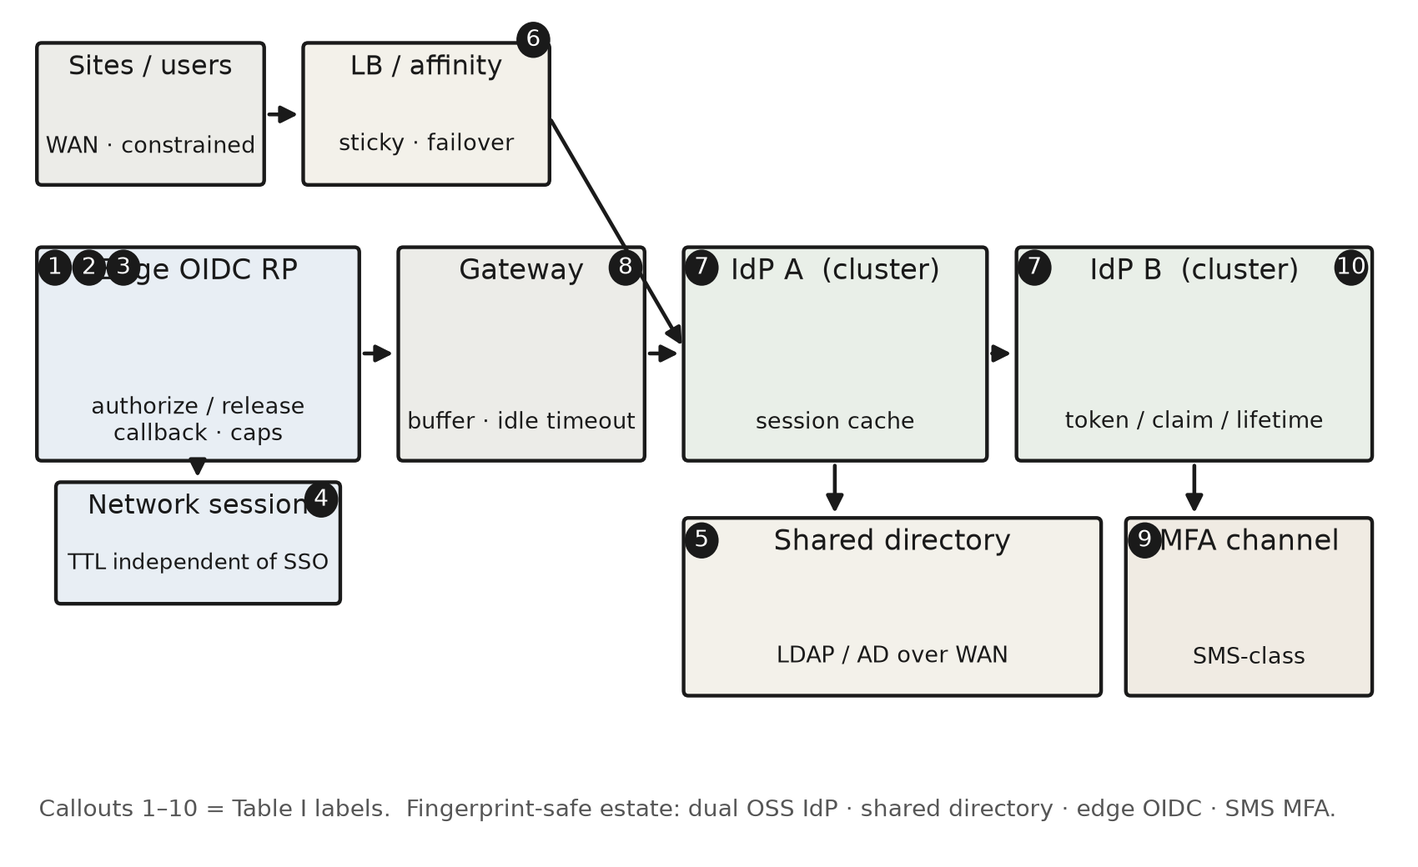
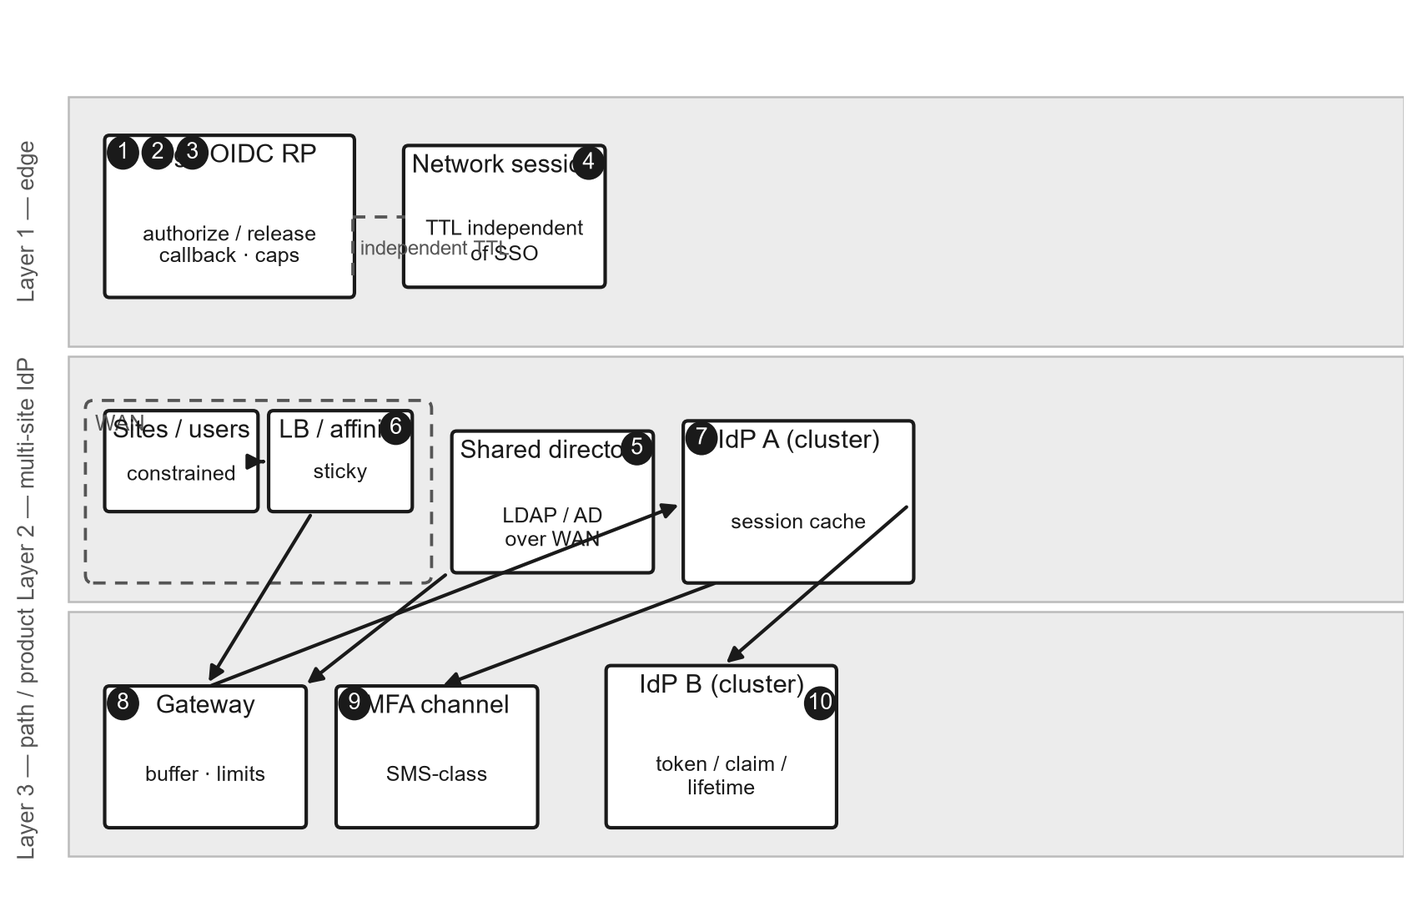
Release v1.0.11: sequential manuscript tables and priority mapping.
Align artifact with IEEE Access Gates pass: Table I-VII numbering in docs and JSON, operational_priority_class mapping, checklist sync, and figure ideal-pass PNGs. No taxonomy or case-data changes.

diff --git a/CHANGELOG.md b/CHANGELOG.md
@@ -1,5 +1,14 @@
 # Changelog
 
+## 1.0.11 — 2026-08-31
+
+Manuscript Gates pass: sequential IEEE table numbering and operational-priority mapping. No taxonomy, category assignments, or reliability values changed.
+
+- **Table numbering.** Manuscript tables renumbered I–VII sequentially; artifact docs and JSON updated (`docs/MANUSCRIPT-TABLES.md`).
+- **Operational priority.** `codebook/incidents.json` adds `operational_priority_class` mapping (legacy `severity` / Sev-1/2/3 → Pri-1/2/3).
+- **Checklist.** Items 3 and 5 synced with manuscript Table V (TTL and directory-federation timeout wording).
+- **Figures.** Ideal-pass PNGs (swimlanes, diamond flowchart, three-panel Fig. 3).
+
 ## 1.0.10 — 2026-08-31
 
 Stop version-DOI lag in `CITATION.cff`. No code or case-data changes.
@@ -31,9 +40,9 @@ Fig. 3 filename alignment only. No taxonomy, category, severity, reliability, or
 Pre-submission consistency and anonymization pass. No taxonomy, category, severity, or reliability values changed; the N=11 catalog and all coding are unchanged.
 
 - **Anonymization.** Removed product, directory-topology, and monitoring-tool names from `docs/EVIDENCE-INDEX.md` I1; no bogus §VI-E cross-reference.
-- **Table III parity.** `codebook/incidents.json` summaries byte-identical to manuscript Table III publishable-summary column; I3 mechanism corrected.
+- **Table IV parity.** `codebook/incidents.json` summaries byte-identical to manuscript Table IV publishable-summary column; I3 mechanism corrected.
 - **Evidence classes.** Added E0–E3 alongside DESIGN/RETRO `form` key (primary key unchanged for reliability packet).
-- **Checklist parity.** Items 3 and 8 aligned with manuscript Table IV (no buffer default; linearizable single-winner consume wording).
+- **Checklist parity.** Items 3 and 8 aligned with manuscript Table V (no buffer default; linearizable single-winner consume wording).
 - **Naming.** `harness/nonce_consume.py` → `callback_consume.py`; `test_nonce_consume.py` → `test_callback_consume.py`.
 - **Metadata.** `CITATION.cff` and `docs/TAGS.md` prepared for v1.0.7; README cite pin updated.
 
@@ -46,7 +55,7 @@ Packaging and manuscript-alignment iterations between the first Access freeze (`
 - Manuscript-aligned freeze for IEEE Access companion artifact.
 - Broaden `mfa_delivery` inclusion to MFA completion on an out-of-band path (SMS unreliability or OTP verification/lifecycle), keeping the ten-category id set.
 - Clarify `codebook/stress-cases.json` as illustrative decision-test vignettes only (not empirical validation).
-- Sync checklist item 9, packet Table I row, I5 publishable summary, and `docs/EVIDENCE-INDEX.md`.
+- Sync checklist item 9, packet Table II row, I5 publishable summary, and `docs/EVIDENCE-INDEX.md`.
 
 ## 0.1.7 — 2026-08-13
 
@@ -60,11 +69,11 @@ Document explicit F3/F5 harness schedules (`harness/SCHEDULES.md`): Schedule A `
 
 ## 0.1.5 — 2026-08-12
 
-Rename category `edge_nonce` → `edge_callback_consume` for protocol precision (callback-correlation consume ≠ OIDC ID-Token nonce / AS–RS token replay). Sync Table I, incidents, checklist, packet, evidence index, and harness docs. Second-coder agreement remains on the same mechanism cell; earlier tags used the prior label name.
+Rename category `edge_nonce` → `edge_callback_consume` for protocol precision (callback-correlation consume ≠ OIDC ID-Token nonce / AS–RS token replay). Sync Table II, incidents, checklist, packet, evidence index, and harness docs. Second-coder agreement remains on the same mechanism cell; earlier tags used the prior label name.
 
 ## 0.1.4 — 2026-08-12
 
-Add `docs/EVIDENCE-INDEX.md` and `docs/EXTERNAL-INCIDENTS.md` (plus GitHub issue template) so manuscript Availability references resolve. Align README / `taxonomy.json` title with the current manuscript. Retire checklist “citation-removal” label in favor of bidirectional case traceability; sync Table IV item wording (incl. item 8 buffer/fixture language).
+Add `docs/EVIDENCE-INDEX.md` and `docs/EXTERNAL-INCIDENTS.md` (plus GitHub issue template) so manuscript Availability references resolve. Align README / `taxonomy.json` title with the current manuscript. Retire checklist “citation-removal” label in favor of bidirectional case traceability; sync Table V item wording (incl. item 8 buffer/fixture language).
 
 ## 0.1.3 — 2026-08-12
 
@@ -76,11 +85,11 @@ Data release for Access Availability: `codebook/reliability.json` (+ `reliabilit
 
 ## 0.1.1 — 2026-08-12
 
-Packet and docs state the second-coder round as **unblinded** relative to the published catalog (`incidents.json` / Table III). “Packet only until submit” remains the working protocol (not a blinding claim).
+Packet and docs state the second-coder round as **unblinded** relative to the published catalog (`incidents.json` / Table IV). “Packet only until submit” remains the working protocol (not a blinding claim).
 
 ## 0.1.0 — 2026-08-12
 
-Independent-coding packet: paraphrased cases (no Table I inclusion vocabulary), additional-observations fields for excludes, Sev-1/2/3 on the response sheet. Gold labels are disclosed as `codebook/incidents.json` (published catalog); working protocol is “do not browse the repo until submit.” Dropped empty `patterns/` placeholder. CI actions SHA-pinned.
+Independent-coding packet: paraphrased cases (no Table II inclusion vocabulary), additional-observations fields for excludes, Sev-1/2/3 on the response sheet. Gold labels are disclosed as `codebook/incidents.json` (published catalog); working protocol is “do not browse the repo until submit.” Dropped empty `patterns/` placeholder. CI actions SHA-pinned.
 
 ## 0.0.0 — 2026-08-11
 

diff --git a/codebook/second-coder/PACKET.md b/codebook/second-coder/PACKET.md
@@ -1,12 +1,12 @@
 # Independent coding packet — label assignment
 
-**Task:** Assign one Table I category and one Table II severity to each case.  
-**This is not taxonomy discovery.** Table I is normative. You apply the inclusion/exclusion rules and tie-breakers.  
+**Task:** Assign one Table II category and one Table III severity to each case.  
+**This is not taxonomy discovery.** Table II is normative. You apply the inclusion/exclusion rules and tie-breakers.  
 **Time:** about one hour.  
 **Order:** cases are in randomized order.  
 **No estate access.** No NDA. Do not search for the paper.
 
-**Working protocol (not blinding):** This round is **unblinded** relative to the published catalog. The public repository’s `codebook/incidents.json` already carries category, severity, and form for all eleven rows (Table III). Those labels are not hidden. Treat this file as self-contained anyway: do not clone, browse, or search that repository until you have submitted this sheet. Reading the catalog would turn the task into transcription. We measure agreement on applying Table I to paraphrased cases, not double-blind discovery.
+**Working protocol (not blinding):** This round is **unblinded** relative to the published catalog. The public repository’s `codebook/incidents.json` already carries category, severity, and form for all eleven rows (Table IV). Those labels are not hidden. Treat this file as self-contained anyway: do not clone, browse, or search that repository until you have submitted this sheet. Reading the catalog would turn the task into transcription. We measure agreement on applying Table II to paraphrased cases, not double-blind discovery.
 
 Return the filled response sheet. Do not discuss cases with the author until you submit.
 
@@ -15,8 +15,8 @@ Return the filled response sheet. Do not discuss cases with the author until you
 ## What you receive
 
 1. This packet (instructions + cases).  
-2. Table I (inclusion / exclusion).  
-3. Table II (severity).  
+2. Table II (inclusion / exclusion).  
+3. Table III (severity).  
 4. Tie-breakers (below).  
 5. Response sheet.
 
@@ -24,7 +24,7 @@ Return the filled response sheet. Do not discuss cases with the author until you
 
 Incident IDs (F1… / I1…), gold category labels, and the manuscript’s one-line summaries. Those labels exist in the public codebook (`codebook/incidents.json`) for the published catalog. They are not hidden; the exercise is therefore unblinded against that catalog. Code from this file only, then submit.
 
-Case texts are paraphrased. They are not the Table I inclusion sentences. Apply the rules; do not keyword-match the table.
+Case texts are paraphrased. They are not the Table II inclusion sentences. Apply the rules; do not keyword-match the table.
 
 ---
 
@@ -32,12 +32,12 @@ Case texts are paraphrased. They are not the Table I inclusion sentences. Apply 
 
 For each case, read **symptom**, **mechanism**, **resolution**, and **additional observations**.
 
-The additional-observations field is evidence for Table I **excludes**. Use it. A match on the inclusion phrase alone is not enough.
+The additional-observations field is evidence for Table II **excludes**. Use it. A match on the inclusion phrase alone is not enough.
 
-1. Walk the tie-breaker order in Table I: first matching **Yes** wins.  
-2. Assign **exactly one** category from Table I.  
-3. Assign **exactly one** severity from Table II, written as `Sev-1`, `Sev-2`, or `Sev-3`. Severity is a second axis. It is not a substitute for mechanism. The same mechanism may appear at two severities.  
-4. If no Table I cell fits, write `NEW_LABEL` and one sentence why.  
+1. Walk the tie-breaker order in Table II: first matching **Yes** wins.  
+2. Assign **exactly one** category from Table II.  
+3. Assign **exactly one** severity from Table III, written as `Sev-1`, `Sev-2`, or `Sev-3`. Severity is a second axis. It is not a substitute for mechanism. The same mechanism may appear at two severities.  
+4. If no Table II cell fits, write `NEW_LABEL` and one sentence why.  
 5. Do not invent incidents. Do not recode another coder’s sheet.
 
 **Frame (honest):** unblinded agreement on label assignment given a normative decision table (not blinding; not taxonomy discovery).
@@ -53,7 +53,7 @@ The additional-observations field is evidence for Table I **excludes**. Use it. 
 
 ---
 
-## Table I — Closed category inclusion and exclusion
+## Table II — Closed category inclusion and exclusion
 
 | Category | Includes | Excludes (goes to…) |
 | --- | --- | --- |
@@ -70,7 +70,7 @@ The additional-observations field is evidence for Table I **excludes**. Use it. 
 
 ---
 
-## Table II — Severity axis
+## Table III — Severity axis
 
 | Code | Meaning |
 | --- | --- |
@@ -167,7 +167,7 @@ Write the code `Sev-1`, `Sev-2`, or `Sev-3` on the response sheet (not bare `1` 
 
 Copy this table. One category and one severity per row. Severity must be `Sev-1`, `Sev-2`, or `Sev-3`.
 
-| Case | Category (Table I or NEW_LABEL) | Severity (Sev-1 / Sev-2 / Sev-3) | One-line note (optional) |
+| Case | Category (Table II or NEW_LABEL) | Severity (Sev-1 / Sev-2 / Sev-3) | One-line note (optional) |
 | ---: | --- | --- | --- |
 | 01 |  |  |  |
 | 02 |  |  |  |

diff --git a/docs/EVIDENCE-INDEX.md b/docs/EVIDENCE-INDEX.md
@@ -1,6 +1,6 @@
 # Evidence index (case → released material)
 
-Honest map for the manuscript Table III. **No estate tickets, live logs, hostnames, product names, topology descriptors, or configuration fragments are released.**
+Honest map for the manuscript Table IV. **No estate tickets, live logs, hostnames, product names, topology descriptors, or configuration fragments are released.**
 
 ## Evidence classes
 
@@ -19,17 +19,17 @@ additional, finer-grained label; it does not renumber or recode any row.
 
 | Case | Category | Form | Class | Released technical material | Notes |
 | --- | --- | --- | --- | --- | --- |
-| F1 | edge_side_effect | DESIGN | E0 | Architect note / Table III summary only | No state-machine fixture released |
-| F2 | edge_identifier | DESIGN | E0 | Architect note / Table III summary only | Mechanism literature is cited in the paper, not as proof of a local event |
+| F1 | edge_side_effect | DESIGN | E0 | Architect note / Table IV summary only | No state-machine fixture released |
+| F2 | edge_identifier | DESIGN | E0 | Architect note / Table IV summary only | Mechanism literature is cited in the paper, not as proof of a local event |
 | F3 | edge_callback_consume | DESIGN | E0 + E3 | Architect note + [`harness/`](../harness/) callback-consume demo | Harness models the race class under single-store assumptions; not estate logs |
-| F4 | session_plane | DESIGN | E0 | Architect note / Table III summary only | |
+| F4 | session_plane | DESIGN | E0 | Architect note / Table IV summary only | |
 | F5 | edge_callback_consume | DESIGN | E0 + E3 | Architect note + [`harness/`](../harness/) callback-consume demo | Same harness as F3; see [`harness/SCHEDULES.md`](../harness/SCHEDULES.md) for the threat model |
-| I1 | directory_federation | RETRO | E1 | Architect note / Table III summary only | No corroborating ticket, log, or configuration retained; the manuscript attributes the failure to WAN federation latency and does not claim measurement |
-| I2 | multi_site_affinity | RETRO | E1 | Architect note / Table III summary only | |
-| I3 | cluster_state | RETRO | E1 | Architect note / Table III summary only | |
+| I1 | directory_federation | RETRO | E1 | Architect note / Table IV summary only | No corroborating ticket, log, or configuration retained; the manuscript attributes the failure to WAN federation latency and does not claim measurement |
+| I2 | multi_site_affinity | RETRO | E1 | Architect note / Table IV summary only | |
+| I3 | cluster_state | RETRO | E1 | Architect note / Table IV summary only | |
 | I4 | protocol_gateway | RETRO | E2 | Publishable summary + [`harness/fixtures/i4/`](../harness/fixtures/i4/) synthetic size-class fixtures | **Ticket-reviewed privately** (not released). Fixtures are **not** estate SAML captures and do not upgrade this row above E2 |
 | I5 | mfa_delivery | RETRO | E2 | Publishable summary only | **Ticket-reviewed privately** (not released); MFA completion failure at OTP verification/lifecycle on the SMS path (category inclusion covers channel unreliability or OTP state); not claimed as PSTN blackout alone |
-| I6 | dual_idp_boundary | RETRO | E1 | Architect note / Table III summary only | No claim matrix released |
+| I6 | dual_idp_boundary | RETRO | E1 | Architect note / Table IV summary only | No claim matrix released |
 
 ## How to run the executable evidence objects
 

diff --git a/docs/SCOPE.md b/docs/SCOPE.md
@@ -4,18 +4,18 @@
 
 - A frozen codebook for a ten-category federated SSO classification instrument (inclusion, exclusion, tie-breakers, severity).
 - Eleven fingerprint-safe incident summaries used as a demonstration of that scheme (`codebook/incidents.json` is the published catalog, including category, severity, and form).
-- An **unblinded** independent-coding packet (`codebook/second-coder/PACKET.md`) with paraphrased cases and negative-evidence fields. Gold labels for the published catalog are in `incidents.json` (Table III). Send the packet standalone so coding is rule application, not transcription; do not claim blinding.
+- An **unblinded** independent-coding packet (`codebook/second-coder/PACKET.md`) with paraphrased cases and negative-evidence fields. Gold labels for the published catalog are in `incidents.json` (Table IV). Send the packet standalone so coding is rule application, not transcription; do not claim blinding.
 - A reliability summary (`codebook/reliability.json`) with raw agreement, Gwet’s AC1 (primary under severity skew), Cohen’s κ, and bootstrap CIs for that round.
 - A standard-library callback-consume demonstration of the manuscript Fig. 3 claim (`harness/callback_consume.py`).
-- An **evidence index** (`docs/EVIDENCE-INDEX.md`) mapping each Table III case to released material (honest when the entry is architect note only).
-- An **open falsifiability path**: external fingerprint-safe incidents against Table I (`docs/EXTERNAL-INCIDENTS.md` + GitHub issue template). Outcomes are not claimed as manuscript evidence.
+- An **evidence index** (`docs/EVIDENCE-INDEX.md`) mapping each Table IV case to released material (honest when the entry is architect note only).
+- An **open falsifiability path**: external fingerprint-safe incidents against Table II (`docs/EXTERNAL-INCIDENTS.md` + GitHub issue template). Outcomes are not claimed as manuscript evidence.
 
 ## This artefact is not
 
 - A production IdP, portal, or estate config.
 - A rate, a laboratory experiment on live IdPs, or statistical transfer across organizations.
-- Independent taxonomy discovery. Second-coder agreement is label assignment given Table I.
-- A hidden gold file. There is no separate public answer key that maps Case 01–11 to F/I ids. The catalog labels themselves are public because they are Table III. The Case→incident shuffle map stays author-only.
+- Independent taxonomy discovery. Second-coder agreement is label assignment given Table II.
+- A hidden gold file. There is no separate public answer key that maps Case 01–11 to F/I ids. The catalog labels themselves are public because they are Table IV. The Case→incident shuffle map stays author-only.
 - Proof that the ten categories are complete. Completeness is not claimed; external submissions are the ongoing test.
 
 ## Fingerprint test

diff --git a/docs/EXTERNAL-INCIDENTS.md b/docs/EXTERNAL-INCIDENTS.md
@@ -1,23 +1,23 @@
-# External incidents against Table I
+# External incidents against Table II
 
 ## Purpose
 
 This is an **ongoing falsifiability check**, not part of the manuscript’s N=11 catalog.
 
-Operators of constrained multi-site open-source IAM / federated SSO deployments may submit fingerprint-safe incident summaries and ask whether they fit the published ten-category scheme (`codebook/taxonomy.json` / manuscript Table I) without inventing a new label.
+Operators of constrained multi-site open-source IAM / federated SSO deployments may submit fingerprint-safe incident summaries and ask whether they fit the published ten-category scheme (`codebook/taxonomy.json` / manuscript Table II) without inventing a new label.
 
 ## How to submit
 
-Open a GitHub issue with the **External incident (Table I)** template, or file a plain issue with the fields below.
+Open a GitHub issue with the **External incident (Table II)** template, or file a plain issue with the fields below.
 
 Required fields:
 
 1. **Symptom** — what users or operators saw (no hostnames, ticket IDs, geography, or org-identifying product names).
 2. **Mechanism** — what failed on the path (identity vs edge vs directory vs cluster vs gateway vs MFA vs dual-IdP meaning).
 3. **Resolution** — what closed or mitigated it (or “unknown”).
-4. **Proposed Table I category** — one of the ten ids, or `none` if you believe no cell fits.
+4. **Proposed Table II category** — one of the ten ids, or `none` if you believe no cell fits.
 5. **Negative evidence** — why neighboring labels do not apply (one sentence each for the closest excludes).
-6. **Severity (optional)** — Sev-1 / Sev-2 / Sev-3 using `codebook/taxonomy.json` / Table II meanings.
+6. **Severity (optional)** — Sev-1 / Sev-2 / Sev-3 using `codebook/taxonomy.json` / Table III meanings.
 
 ## Scoring (maintainer)
 
@@ -25,7 +25,7 @@ Each accepted submission is labeled one of:
 
 | Outcome | Meaning |
 | --- | --- |
-| `fits` | Places in exactly one Table I cell under the published tie-breakers |
+| `fits` | Places in exactly one Table II cell under the published tie-breakers |
 | `fits_with_clarification` | Fits after a wording clarification that does not add a category |
 | `forces_new_label` | Cannot be placed without a new category or a layer merge that changes boundaries |
 

diff --git a/codebook/second-coder/README.md b/codebook/second-coder/README.md
@@ -4,6 +4,6 @@ Send [`PACKET.md`](PACKET.md) as a **standalone file**. Do not point the coder a
 
 `codebook/incidents.json` in this repository **is** the published catalog (category, severity, and form for all eleven rows, plus header counts). A statement that gold labels are absent from the tree would be false. The second-coder round is therefore **unblinded** against that catalog. The working protocol is still “packet only until submit” so the sheet is not a transcription exercise.
 
-The task is agreement on label assignment given Table I, not independent taxonomy discovery and not double-blind discovery. n=11 across ten categories: Cohen’s κ interval will be wide; report it, do not oversell it. Published summary: [`../reliability.json`](../reliability.json).
+The task is agreement on label assignment given Table II, not independent taxonomy discovery and not double-blind discovery. n=11 across ten categories: Cohen’s κ interval will be wide; report it, do not oversell it. Published summary: [`../reliability.json`](../reliability.json).
 
 The coder must be nameable in Acknowledgments or describable anonymously, and must not have declined association with the work.

diff --git a/docs/MANUSCRIPT-TABLES.md b/docs/MANUSCRIPT-TABLES.md
@@ -1,0 +1,15 @@
+# Manuscript table numbering (IEEE Access)
+
+Sequential table numbers in the submitted manuscript (31 Aug 2026 Gates pass):
+
+| Manuscript table | Content | Artifact primary file |
+| --- | --- | --- |
+| **Table I** | Evidence classes (E0–E3) | `codebook/incidents.json` (`evidence_classes`) |
+| **Table II** | Rule-bounded categories | `codebook/taxonomy.json` |
+| **Table III** | Operational priority class | `codebook/taxonomy.json` / `incidents.json` (`operational_priority_class` mapping) |
+| **Table IV** | Case catalog | `codebook/incidents.json` |
+| **Table V** | Practitioner checklist | `codebook/checklist.json` |
+| **Table VI** | Prior-work comparison | manuscript only |
+| **Table VII** | F5 threat model | manuscript only |
+
+Earlier artifact releases used non-sequential numbering (evidence classes as Table VI). From this revision onward, the manuscript uses normal IEEE ordering and the artifact tracks it via `incidents.json` → `manuscript_tables`.

diff --git a/README.md b/README.md
@@ -23,7 +23,7 @@ No hostnames, secrets, ticket IDs, or geography.
 
 ## External incidents (falsifiability)
 
-Operators of similar constrained multi-site open-source IAM deployments may submit fingerprint-safe incident summaries against the published Table I. Use the **External incident (Table I)** GitHub issue template or follow [`docs/EXTERNAL-INCIDENTS.md`](docs/EXTERNAL-INCIDENTS.md). Submissions are scored `fits` / `fits_with_clarification` / `forces_new_label`. They are **not** part of the manuscript’s N=11 catalog.
+Operators of similar constrained multi-site open-source IAM deployments may submit fingerprint-safe incident summaries against the published Table II. Use the **External incident (Table II)** GitHub issue template or follow [`docs/EXTERNAL-INCIDENTS.md`](docs/EXTERNAL-INCIDENTS.md). Submissions are scored `fits` / `fits_with_clarification` / `forces_new_label`. They are **not** part of the manuscript’s N=11 catalog.
 
 ## Evidence index
 

diff --git a/docs/TAGS.md b/docs/TAGS.md
@@ -4,6 +4,7 @@ Cite a tag, never floating `main`.
 
 | Tag | Role |
 | --- | --- |
+| `v1.0.11` | **Manuscript cite pin** for IEEE Access submission (Gates pass). Sequential table numbering I–VII; `operational_priority_class` mapping in `incidents.json`; figure ideal pass; refs [29]–[34] in manuscript only. Wire version DOI into manuscript ref [28] after Zenodo mints for this release. |
 | `v1.0.10` | **CITATION.cff policy fix.** `url:` and `identifiers` use concept DOI only (`10.5281/zenodo.21950901`). Version DOI belongs in the manuscript, not in the artifact metadata. |
 | `v1.0.9` | **IEEE Access / Zenodo cite pin** for manuscript Availability and ref [28]. Version DOI `10.5281/zenodo.22214839`. Tag snapshot's `CITATION.cff` still carried v1.0.8 DOI — superseded by v1.0.10 policy. |
 | `v1.0.9.1` | Superseded post-tag DOI wire attempt; do not cite this tag in the paper. |

diff --git a/codebook/README.md b/codebook/README.md
@@ -6,7 +6,7 @@ Machine-readable copy of the frozen coding scheme. No hostnames, geography, tick
 | --- | --- |
 | [`taxonomy.json`](taxonomy.json) | Ten a priori labels + inclusion/exclusion |
 | [`incidents.json`](incidents.json) | N=11 publishable catalog (category, severity, form, summary) |
-| [`checklist.json`](checklist.json) | Table IV items with bidirectional case traceability |
+| [`checklist.json`](checklist.json) | Table V items with bidirectional case traceability |
 | [`reliability.json`](reliability.json) | Second-coder raw agreement + Gwet AC1 (primary) + Cohen’s κ + bootstrap CI |
 | [`reliability.md`](reliability.md) | Human-readable reliability summary |
 | [`second-coder/PACKET.md`](second-coder/PACKET.md) | Unblinded independent-coding packet. Send standalone. `incidents.json` is the published catalog, not a hidden key. |

diff --git a/codebook/reliability.md b/codebook/reliability.md
@@ -13,4 +13,4 @@ Protocol: **unblinded** independent coding (packet-only; public gold in `inciden
 
 **Sole disagreement (severity only):** `cluster_state` — author Sev-2 (cohort/site ops intervention), coder Sev-3 (conflicting replica state as trust/security-boundary risk). Category agreed. That split is where the Sev-2/Sev-3 boundary does real judgment work (stale state → wrong trust), not noise in the mechanism label.
 
-Frame: agreement given Table I; n=11 → wide CIs; not multi-estate reliability. The Case→incident shuffle map stays out of this tree (author-only).
+Frame: agreement given Table II; n=11 → wide CIs; not multi-estate reliability. The Case→incident shuffle map stays out of this tree (author-only).

diff --git a/figures/README.md b/figures/README.md
@@ -1,3 +1,3 @@
 # Figures
 
-Copies of Fig. 1–3 from the manuscript. Captions stay in the paper. Fig. 2 is the Table I tie-breaker walk (`fig2-tie-breaker.png`), not a count chart. Fig. 3 is `fig3-callback-consume.png` (edge callback consumption; F3/F5).
+Copies of Fig. 1–3 from the manuscript. Captions stay in the paper. Fig. 2 is the Table II tie-breaker walk (`fig2-tie-breaker.png`), not a count chart. Fig. 3 is `fig3-callback-consume.png` (edge callback consumption; F3/F5).
